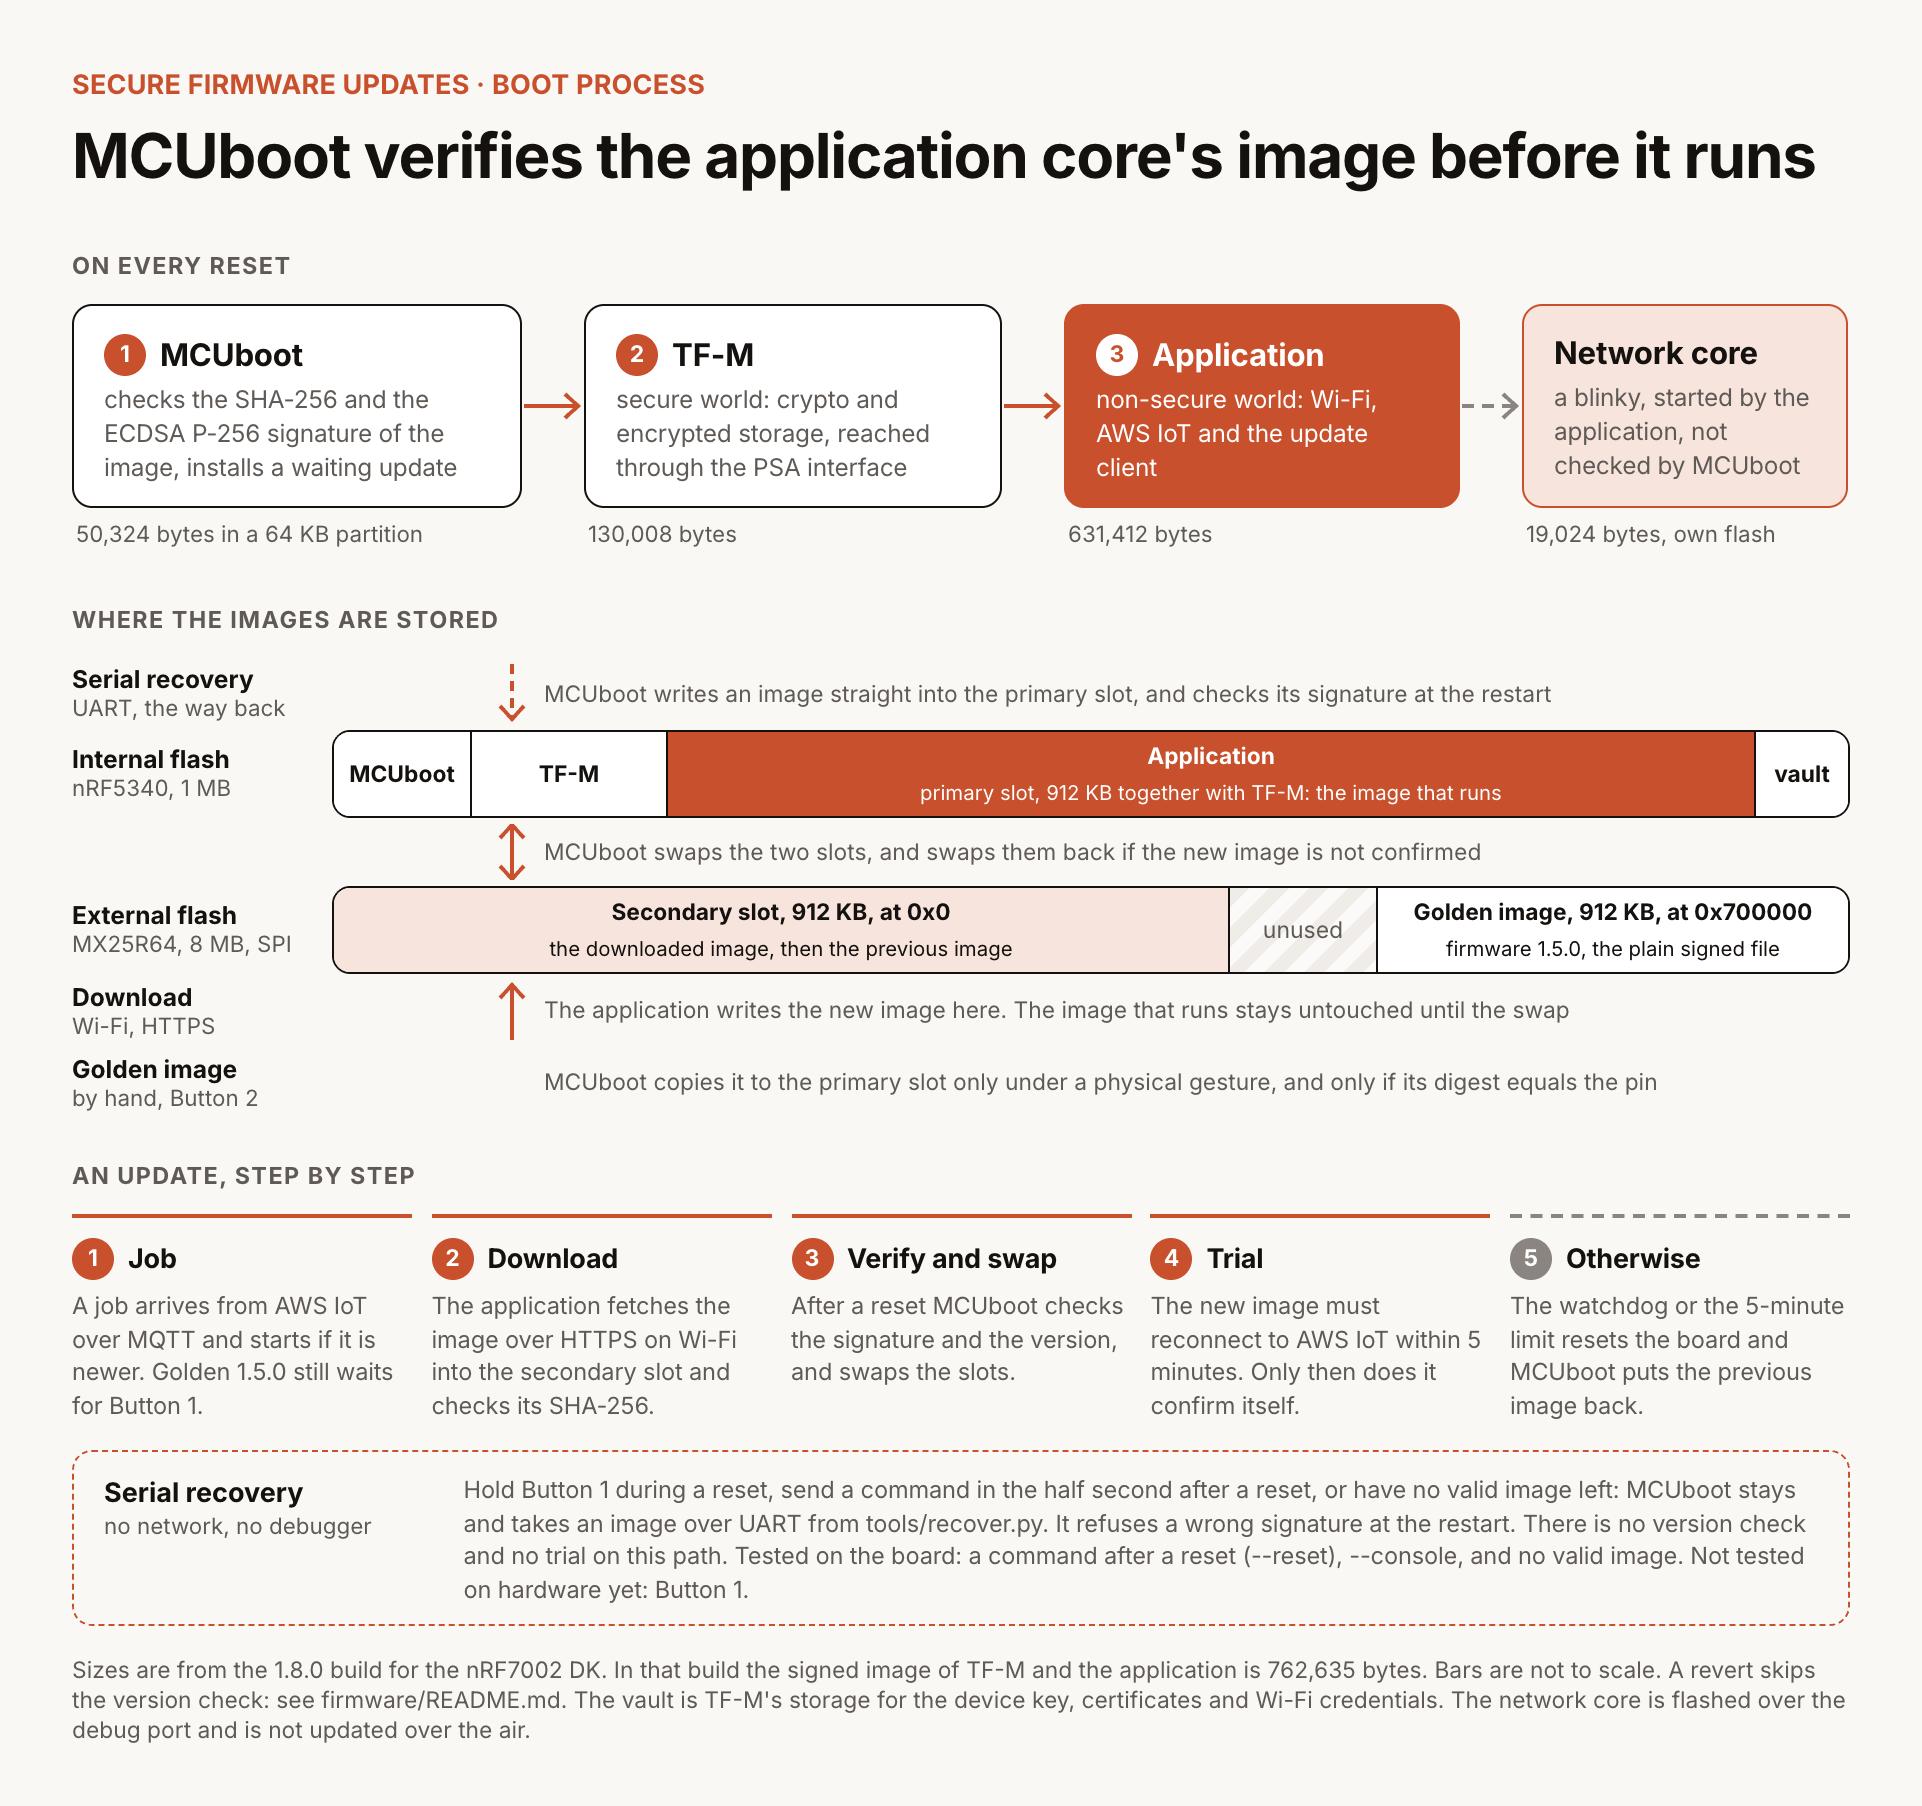
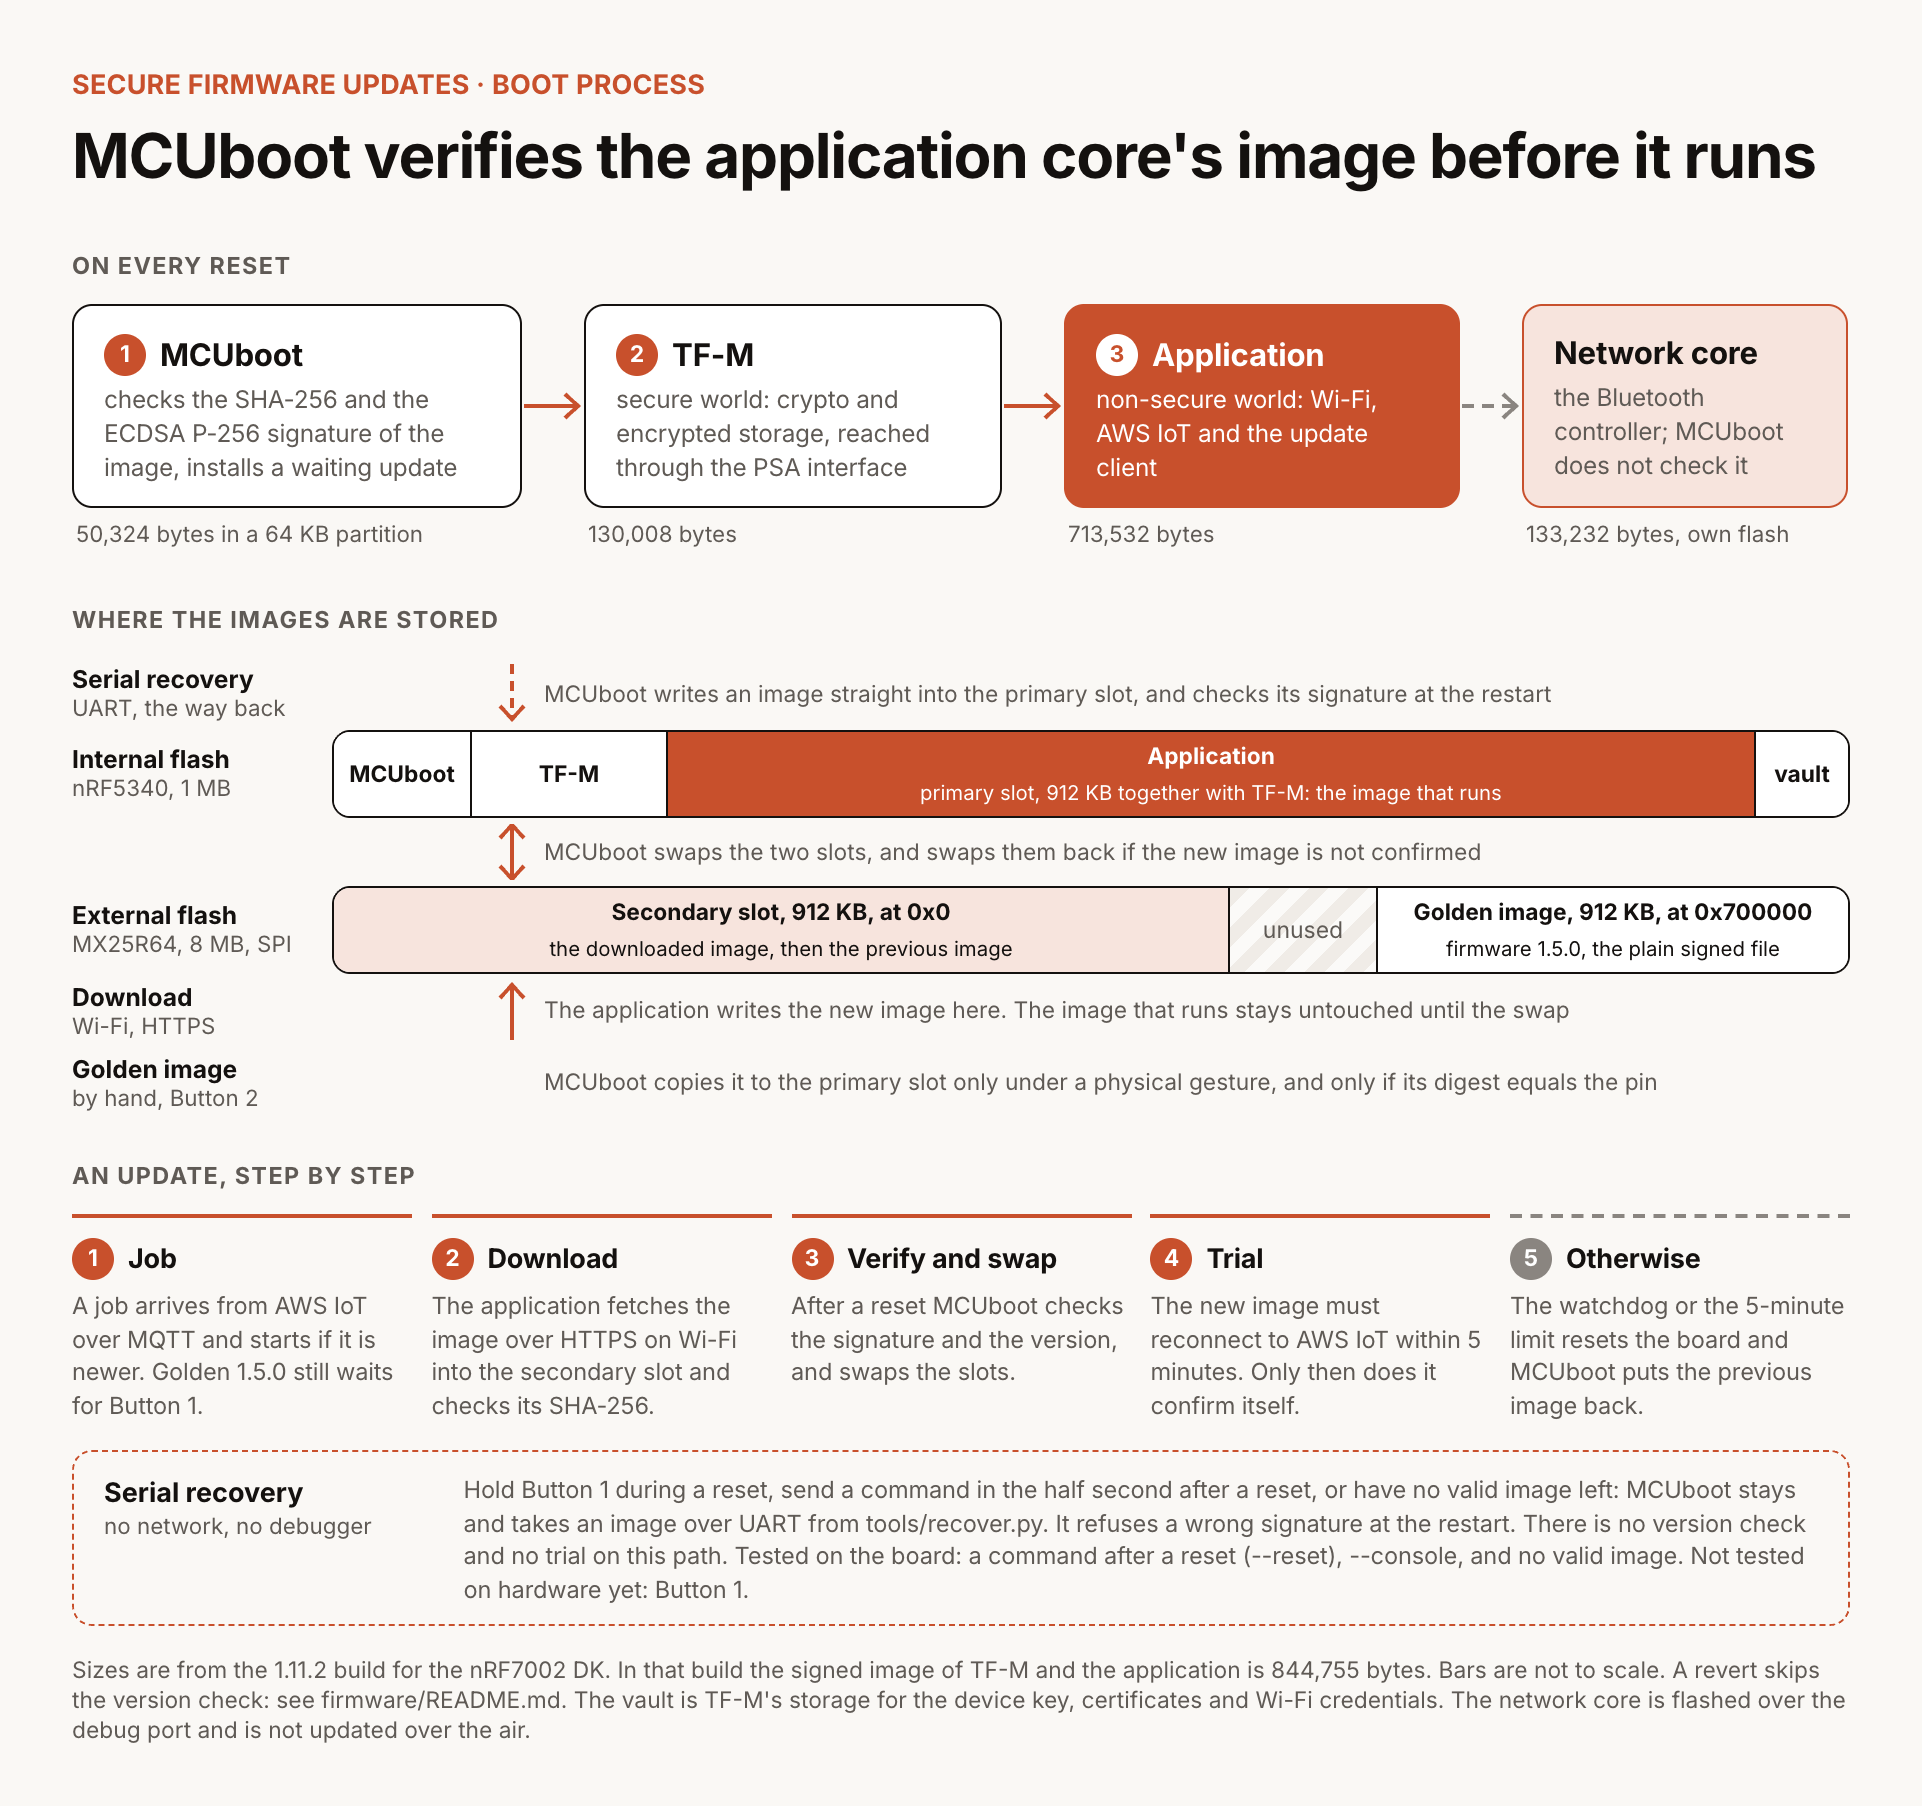
Bring the README and the results up to the board as it is
The network core now runs the Bluetooth controller, and the sizes are those of
1.11.2, which the board runs; the boot diagram says the same. docs/test-results.md
records the updates from 1.7.5 to 1.11.2, the network core's flash, the first
Bluetooth test and what it did not get to, the event log recording an update,
and the first sign-in on the console's own page.

Changed region(s): [[0.1561, 0.8992, 0.9365, 0.9302], [0.8117, 0.2171, 0.9365, 0.3101], [0.5619, 0.2791, 0.6243, 0.3101]]

diff --git a/docs/test-results.md b/docs/test-results.md
@@ -27,6 +27,46 @@ Every run below was on one nRF7002 DK. The benches write one line per run to a l
 
 <!-- OVER-THE-AIR REGRESSION: the section under this comment is the one place that says whether the over-the-air regression on the final firmware has run. Other documents link to it. When it has run, replace its text with the date, the firmware, the bootloader, the results and what failed on the way, and add a row to the table above. -->
 
+## Firmware 1.8.0 to 1.11.2, Bluetooth, the event log and the new sign-in
+
+All on 2026-11-02, on the bootloader that holds the pin, with the board on a computer's USB port.
+
+**Updates over the air.** Each one confirmed itself; the boot diary shows a software restart into each, and each reached
+the cloud.
+
+| Update | Result |
+| --- | --- |
+| 1.7.4 to 1.7.5 and 1.7.6 (the demo images) | `SUCCEEDED` |
+| 1.7.6 to 1.8.0 | `SUCCEEDED`; LED1 and LED2 take turns when online |
+| 1.8.0 to 1.10.0 | `SUCCEEDED`; the `diag` report arrives: the MAC address, Wi-Fi channel 157 and the heap |
+| 1.10.0 to 1.11.0 | `SUCCEEDED` |
+| 1.11.0 to 1.11.2 | `SUCCEEDED`, 2 min 51 s from the download starting: 47 s to download, 1 min 44 s from the restart to the cloud |
+
+**The network core.** `scripts/flash-netcore.sh` put the Bluetooth controller on it over the debug port. The board came
+back on 1.11.0, confirmed, with its ID, Wi-Fi and certificates as before.
+
+**Bluetooth, first test, partial.** With nRF Connect Device Manager on an iPhone, on 1.11.0:
+
+| What | Result |
+| --- | --- |
+| Button 1 for 5 s opens Bluetooth | Yes: the shadow says `bluetooth`, four times |
+| The phone finds the board and connects | Yes |
+| The passkey reaches the phone's person through the console | Yes, twice |
+| An image arrives | **No.** Once the board dropped the paired link after 30 s with nothing sent, while its person chose a mode; once the link ended on reason 0x22, a link-layer exchange that got no answer within 40 s, 40 s after connecting. Device Manager's Upgrade flow also stalled, because it asks for settings the board refuses |
+
+1.11.2 gives a quiet link 120 s and the window 180 s, and says on the console what the link negotiated and why it ended,
+for the next test. Not fixed until an image goes through.
+
+**The event log.** Deployed from eed1e50. The 1.11.0 to 1.11.2 update was recorded step by step: downloading,
+checking, restarting, the disconnect (the board closed it), the connect, the restart after 30 min up with its cause from
+the boot diary, the firmware change, and the update's success. Signal samples arrive every 30 s.
+
+**Signing in on the console's own page.** Deployed from 22e9c37. The owner signed in with their own account: the
+password and then the six-box code. Cognito accepted the exchange and the console's API accepted the token.
+
+**Not run yet:** the `MQTT` commands on the board itself (they are tested on the simulator), either phone app on a
+phone, and the iPhone app built for iOS.
+
 ## Over the air on the final firmware
 
 **Updates have finished on 1.7.0, 1.7.1 and 1.7.2, one failed the same way twice, and the regression has not run.**

diff --git a/README.md b/README.md
@@ -91,7 +91,7 @@ We are developing a mounted attachment to beginner DJ controllers in order to re
 
 ![Boot process](<./pics/Boot Process.png>)
 
-On every reset, MCUboot checks the image's SHA-256 and ECDSA P-256 signature, and only boots it if both are valid. The image contains TF-M (secure world: crypto and encrypted storage) and our application (non-secure world). The network core runs a small blinky, which is flashed over the debug port and isn't updated over the air.
+On every reset, MCUboot checks the image's SHA-256 and ECDSA P-256 signature, and only boots it if both are valid. The image contains TF-M (secure world: crypto and encrypted storage) and our application (non-secure world). The network core runs the Bluetooth controller, which is flashed over the debug port and isn't updated over the air.
 
 To update, a release manager deploys a signed image from our console, which creates an AWS IoT job. The application downloads the image into the secondary slot, checks it and resets. MCUboot verifies the signature, swaps the slots and starts the new image on trial. If it can't reconnect to AWS IoT, the next reset swaps the old image back.
 
@@ -99,8 +99,8 @@ To update, a release manager deploys a signed image from our console, which crea
 
 | Question | Answer |
 | --- | --- |
-| How large is your bootloader? | MCUboot is 50,324 bytes of flash in a 64 KB partition, and uses 22,408 bytes of RAM (1.8.0 build). |
-| How large is your existing application code? | The application is 631,412 bytes of flash and uses 360,112 of 409,600 bytes of RAM. TF-M is 130,008 bytes of flash and uses 36,620 bytes of RAM. Signed together, they're 762,635 bytes in a 933,888-byte slot. The network core's blinky is another 19,024 bytes (1.8.0 build). |
+| How large is your bootloader? | MCUboot is 50,324 bytes of flash in a 64 KB partition, and uses 22,408 bytes of RAM (1.11.2 build). |
+| How large is your existing application code? | The application is 713,532 bytes of flash and uses 394,676 of 409,600 bytes of RAM. TF-M is 130,008 bytes of flash and uses 36,620 bytes of RAM. Signed together, they're 844,755 bytes in a 933,888-byte slot. The network core's Bluetooth controller is another 133,232 bytes (1.11.2 build). |
 | Does the bootloader or application code handle the firmware image download? | The application. MCUboot has no network stack. |
 | What wireless communication is used to download the images? | Wi-Fi (nRF7002). The job arrives over MQTT with mutual TLS, and the image comes over HTTPS from a signed S3 link. |
 | Why this method? | A signed image is about 760 KB. Wi-Fi reaches the server directly and downloads it in about a minute. Bluetooth would need a phone as a relay, and we're saving it for audio. |
